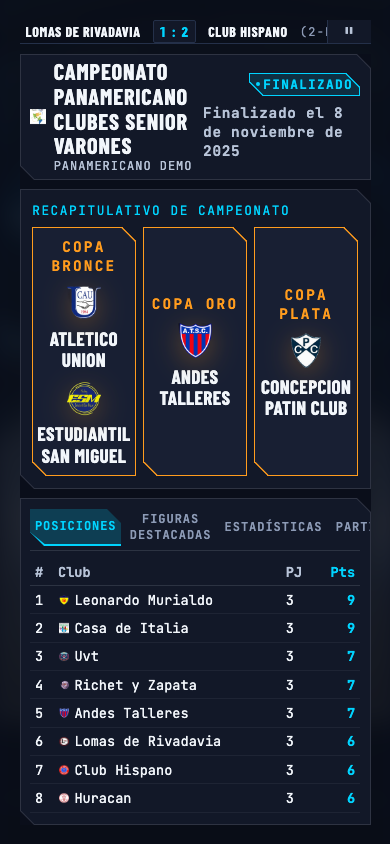
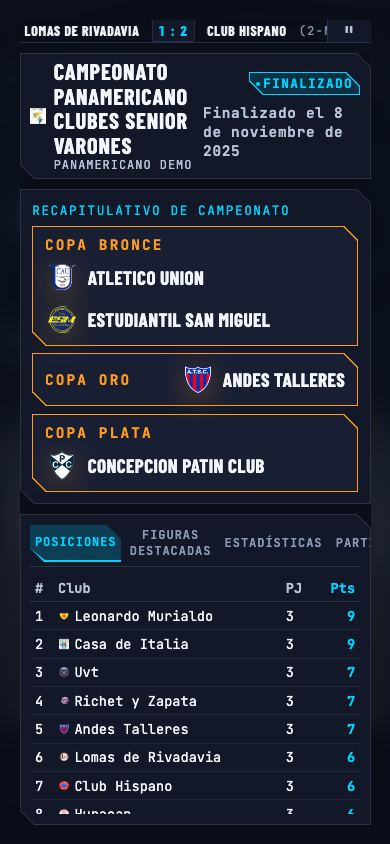
feat(tv): stack the zone champions vertically on a narrow or portrait frame

diff --git a/apps/web/src/styles/tv-broadcast.css b/apps/web/src/styles/tv-broadcast.css
@@ -1405,3 +1405,44 @@
   letter-spacing: 0.08em;
   text-transform: uppercase;
 }
+
+/*
+ * Narrow or portrait frames stack the zones' champions one under another: with many final zones a
+ * row of columns shrinks each to a sliver, while a column keeps every champion readable and the
+ * panel scrolls for whatever does not fit.
+ */
+@media (max-width: 768px), (orientation: portrait) {
+  .tv-champions {
+    grid-template-columns: minmax(0, 1fr);
+    align-content: start;
+    height: auto;
+    max-height: 100%;
+    overflow-y: auto;
+  }
+
+  .tv-champions__zone {
+    flex-direction: row;
+    flex-wrap: wrap;
+    justify-content: space-between;
+    gap: 1.6vmin 3vmin;
+    padding: 2vmin 3vmin;
+    text-align: left;
+  }
+
+  .tv-champions__list {
+    flex-direction: row;
+    flex-wrap: wrap;
+    gap: 1.6vmin 3vmin;
+  }
+
+  .tv-champions__champion {
+    flex-direction: row;
+    gap: 2vmin;
+  }
+
+  .tv-champions__emblem,
+  .tv-champions__monogram {
+    width: 9vmin;
+    height: 9vmin;
+  }
+}
